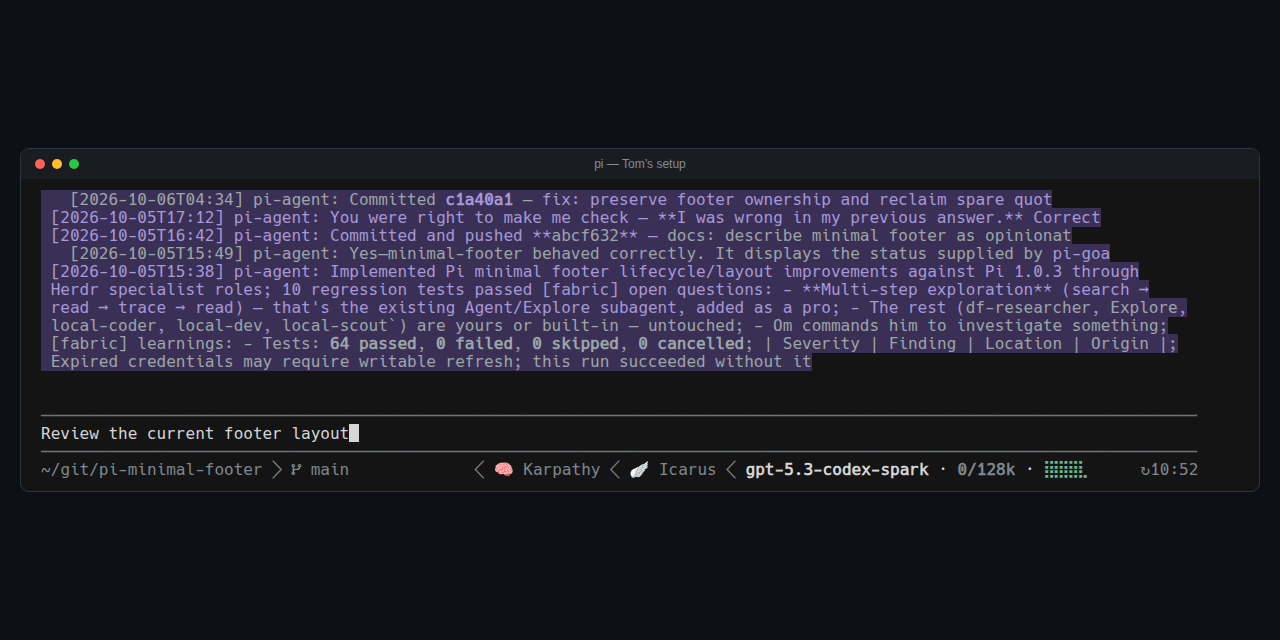
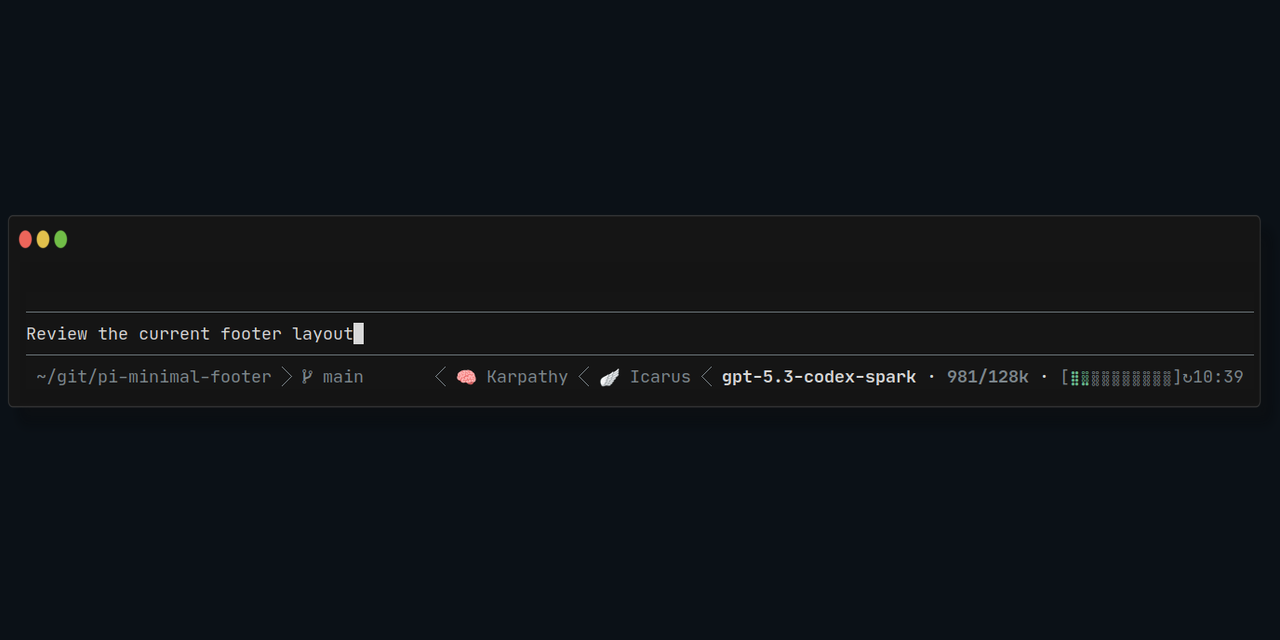
feat: configure usage bar size and pad footer edges

Changed region(s): [[0.0, 0.25, 0.9688, 0.75]]

diff --git a/extensions/index.ts b/extensions/index.ts
@@ -30,6 +30,7 @@ interface Settings {
     showModel?: boolean;
     showContext?: boolean;
     powerlineSeparator?: boolean;
+    maxUsageBarCells?: number;
   };
 }
 
@@ -43,6 +44,7 @@ const DEFAULT_SETTINGS: FooterSettings = {
   showModel: true,
   showContext: true,
   powerlineSeparator: true,
+  maxUsageBarCells: MAX_BAR_CELLS,
 };
 
 function settingsPath(): string {
@@ -74,7 +76,11 @@ function writeSettings(patch: Partial<Settings>): void {
 
 function readConfig(): FooterSettings {
   const s = readSettings();
-  return { ...DEFAULT_SETTINGS, ...s.minFooter };
+  const config = { ...DEFAULT_SETTINGS, ...s.minFooter };
+  if (typeof config.maxUsageBarCells !== "number" || !Number.isSafeInteger(config.maxUsageBarCells) || config.maxUsageBarCells < 1) {
+    config.maxUsageBarCells = MAX_BAR_CELLS;
+  }
+  return config;
 }
 
 function writeEnabled(v: boolean): void {
@@ -141,12 +147,14 @@ const MIN_STATUS_WIDTH = 12;
 function buildLine(
   width: number, path: string, statuses: string, branch: string, model: string, context: string,
   usage: (available: number, maxCells?: number) => string | null,
-  statusSeparator: string, locationSeparator: string,
+  statusSeparator: string, locationSeparator: string, maxUsageBarCells: number,
 ): string {
   if (width <= 0) return "";
+  if (width <= 2) return " ".repeat(width);
+  width -= 2;
   let core = [model, context].filter(Boolean).join(MODEL_GAP);
   // Budget the compact bar first; its expanded size must not drive truncation decisions.
-  const usageBar = usage(width) ?? "";
+  const usageBar = usage(width, Math.min(BASE_BAR_CELLS, maxUsageBarCells)) ?? "";
   const usageGapWidth = usageBar && core ? USAGE_GAP.length : 0;
   const coreBudget = Math.max(0, width - visibleWidth(usageBar) - usageGapWidth);
   if (usageBar && coreBudget < MIN_TEXT_WIDTH) {
@@ -182,11 +190,11 @@ function buildLine(
     // A dropped left group needs no divider; those columns belong to the usage bar instead.
     const interGroupGapWidth = left && right ? LOCATION_GAP_WIDTH : 0;
     const spareWidth = Math.max(0, width - visibleWidth(left) - visibleWidth(right) - interGroupGapWidth);
-    const expandedUsageBar = usage(visibleWidth(usageBar) + spareWidth, MAX_BAR_CELLS) ?? usageBar;
+    const expandedUsageBar = usage(visibleWidth(usageBar) + spareWidth, maxUsageBarCells) ?? usageBar;
     const expandedCore = [core, expandedUsageBar].filter(Boolean).join(USAGE_GAP);
     right = [fittedStatuses, expandedCore].filter(Boolean).join(statusSeparator);
   }
-  return left + " ".repeat(Math.max(0, width - visibleWidth(left) - visibleWidth(right))) + right;
+  return " " + left + " ".repeat(Math.max(0, width - visibleWidth(left) - visibleWidth(right))) + right + " ";
 }
 
 // ── Extension ─────────────────────────────────────────────────────────
@@ -251,6 +259,7 @@ export default function (pi: ExtensionAPI) {
             (available, maxCells = BASE_BAR_CELLS) => usageLimits.line(available, theme, maxCells),
             statusSeparator,
             config.powerlineSeparator ? theme.fg("dim", "  ") : " ",
+            config.maxUsageBarCells ?? MAX_BAR_CELLS,
           );
           return [line];
         },

diff --git a/extensions/lib/usage-limits.ts b/extensions/lib/usage-limits.ts
@@ -14,7 +14,7 @@ const CELL_STEPS = 8;
 const PARTIAL_CELL_FILLS = ["", "⡀", "⣀", "⣄", "⣤", "⣦", "⣶", "⣷"];
 
 // Start compact so extra precision never steals space from the other footer fields.
-export const BASE_BAR_CELLS = 5;
+export const BASE_BAR_CELLS = 2;
 export const MAX_BAR_CELLS = 10;
 
 function formatResetLabel(resetAt: number | null, now: number): string {

diff --git a/README.md b/README.md
@@ -9,9 +9,9 @@
 
 An opinionated, compact one-line footer for [Pi](https://github.com/earendil-works/pi).
 
-Path and branch on the left; extension statuses, model, context, and subscription usage bar on the right. Shrinks to fit narrow terminals. Interactive terminal UI only.
+Path and branch on the left; extension statuses, model, context, and subscription usage bar on the right. Shrinks to fit narrow terminals, with one space of padding at each edge. Interactive terminal UI only.
 
-![Footer preview: ~/git/project   main        🧠 Karpathy  🪽 Icarus  model · 42/200k · ⣿⣿⣿⣤      ↻1d8h](media/github-preview.png)
+![Footer preview: ~/git/project   main        🧠 Karpathy  🪽 Icarus  model · 42/200k · [⣿⣿⣿⣤      ]↻1d8h](media/github-preview.png)
 
 ## Install
 
@@ -44,20 +44,22 @@ Edit `minFooter` in Pi's agent `settings.json` (normally `~/.pi/agent/settings.j
     "showPath": true,
     "showModel": true,
     "showContext": true,
-    "powerlineSeparator": true
+    "powerlineSeparator": true,
+    "maxUsageBarCells": 10
   }
 }
 ```
 
 - `showSkills` shows **extension status text**, not installed skills. The footer does not add the example statuses itself.
 - Set `powerlineSeparator` to `false` for plain spaces instead of `` / `` if your font lacks those glyphs. The git icon `` also needs a compatible font; hide it with `showGitBranch: false` if needed.
+- `maxUsageBarCells` caps the Braille bar length (excluding brackets and reset time). Use a positive integer, e.g. `4` for a compact bar; invalid values fall back to `10`.
 - Context `42/200k` means tokens used / context window. `?` means Pi has not reported usage yet, including immediately after compaction.
 
 ## Reading subscription usage
 
-`⣿⣿⣿⣤      ↻1d8h` shows **subscription allowance used**, not context usage.
+`[⣿⣿⣿⣤      ]↻1d8h` shows **subscription allowance used**, not context usage.
 
-- Bar: shown as `[cells]` with 5–10 cells, expanding into spare space; green below 85%, amber from 85%, red from 92%. The brackets keep the bar’s beginning and end visible even when it is empty. Dim means cached after a refresh failure. Very narrow terminals may show fewer cells or only the reset label.
+- Bar: shown as `[cells]` with 2–10 cells by default, expanding into spare space up to `maxUsageBarCells` (or fewer when the cap is below 2); green below 85%, amber from 85%, red from 92%. The brackets keep the bar’s beginning and end visible even when it is empty. Dim means cached after a refresh failure. Very narrow terminals may show fewer cells or only the reset label.
 - Reset: local `↻HH:mm` through 24 hours; whole days/hours above 24 hours (`↻1d8h`); whole days above 10 days (`↻12d`). Remaining durations round down. No reset reported means bar only.
 - Shows the shortest available usage window for the selected provider. Missing credentials, unsupported/local models, or absent limits hide the usage bar. Custom proxy endpoints are not polled.
 

diff --git a/CHANGELOG.md b/CHANGELOG.md
@@ -7,6 +7,16 @@ and this project adheres to [Semantic Versioning](https://semver.org/spec/v2.0.0
 
 ## [Unreleased]
 
+### Added
+
+- `minFooter.maxUsageBarCells` (default `10`) to cap the subscription usage bar length; use a positive integer such as `4` for a compact bar, excluding brackets and reset time
+
+### Changed
+
+- Reduce the compact subscription usage bar baseline from five to two cells before expanding into spare space up to the configured cap
+- Add one space at each footer edge, reserving those columns when fitting narrow terminals
+- Refresh README and package-gallery PNG previews with the current footer, edge padding, and live OpenAI Codex subscription usage
+
 ## [0.3.3] - 2026-10-07
 
 ### Changed
